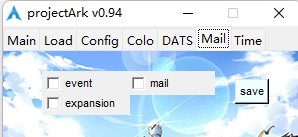
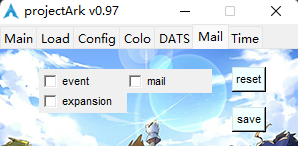
upd v0.97

diff --git a/projectArk/document.md b/projectArk/document.md
@@ -6,9 +6,9 @@ projectArk: True
 ---
 
 # Document
-> Version: v0.94
+> Version: v0.97
 >
-> Date: 2022.5.23
+> Date: 2022.6.13
 >
 > Author: Immortal.S
 
@@ -265,15 +265,29 @@ projectArk: True
 
   ![12](/projectArk/resource/Mail.png)
 - 核心功能：
-  - 后台批量登陆账号，自动领取邮件、活动礼包等
+  - 后台批量登陆账号，自动领取邮件、活动登录奖励等
   - 支持空号自动创建一个随机ID、随机角色、随机数码兽
-  - 支持新角色自动做新手指引（需要借助未在挂机的弯刀脚本，自动任务选上“横滨镇”）
+  - 支持新角色自动做新手任务（需要借助未在挂机的弯刀脚本，自动任务选上“横滨镇”）
+  - 自动记录各账号领取与否的状态
 - 功能说明
 
       - mail：领取邮件
       - event：领取活动登陆奖励
-      - expansion: 自动使用背包扩展
-- 限制：仅限国际服奥米加区（GDMO-Omegamon）
+      - expansion: 自动使用背包扩展（完成新手任务后会送 21 个）
+      - reset: 重置各账号的领取状态
+      - save: 保存选择的功能列表
+- 账号信息
+  - excel 打开 set 文件夹下的 account.csv 文件，按照示例填写账号信息
+  - 示例：
+  ![12](/projectArk/resource/account.png)
+- 使用方法：
+  - 填写账号信息
+  - 勾选需要执行的功能
+  - 点击主页面 Mail 按钮启动/停止
+  - 停止后再次点击启动会从上次操作的账号开始
+- 限制：
+  - 仅限国际服奥米加区（GDMO-Omegamon）
+  - 自动领取邮件的角色需要完成新手任务
 
 
 ## 其他
